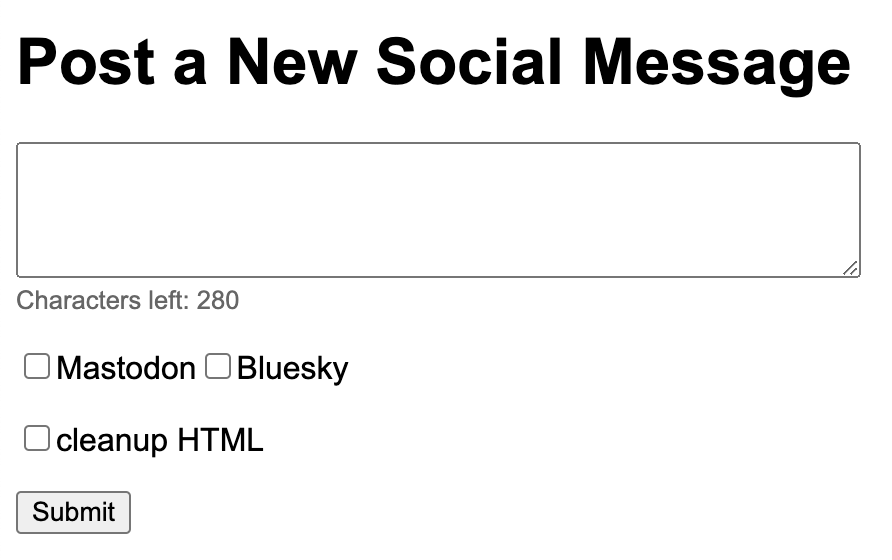
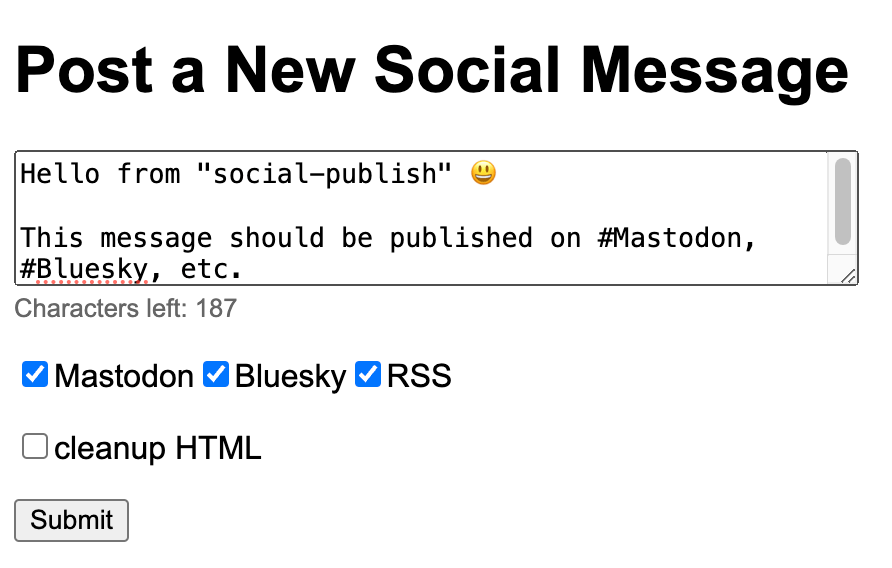
Fix

diff --git a/README.md b/README.md
@@ -8,6 +8,7 @@ This project is the start of a simple tool to publish my content to multiple soc
 
 - Only [Bluesky](https://bsky.app/) and [Mastodon](https://joinmastodon.org/) support is implemented, but Twitter and LinkedIn are planned
 - Only text posts are supported at this time, but media posts are planned
+- Also exports an RSS feed, meant for automation via `ifttt.com`
 
 ## Self-hosting
 
@@ -35,6 +36,9 @@ services:
 Where `./envs/social-publish.env` contains:
 
 ```sh
+# Where the server is hosted — needed for correctly generating an RSS feed
+BASE_URL="https://your-hostname.com"
+
 # The server's Basic AUTH credentials
 SERVER_AUTH_USERNAME="your-username"
 SERVER_AUTH_PASSWORD="your-password"
@@ -69,6 +73,10 @@ Or, if you open the webpage in a browser (e.g., `http://localhost:3000/`), you c
 
 <img src="./docs/form.png" width="400" alt='Screenshot of "Post a New Social Message" form' />
 <hr/>
+
+### RSS feed
+
+While this service is able to publish directly to Mastodon and Bluesky, for other social networks you can use the RSS feed, available at exposed at `/rss` (e.g., `http://localhost:3000/rss`) in combination with [ifttt.com](https://ifttt.com).
 
 ## License
 
